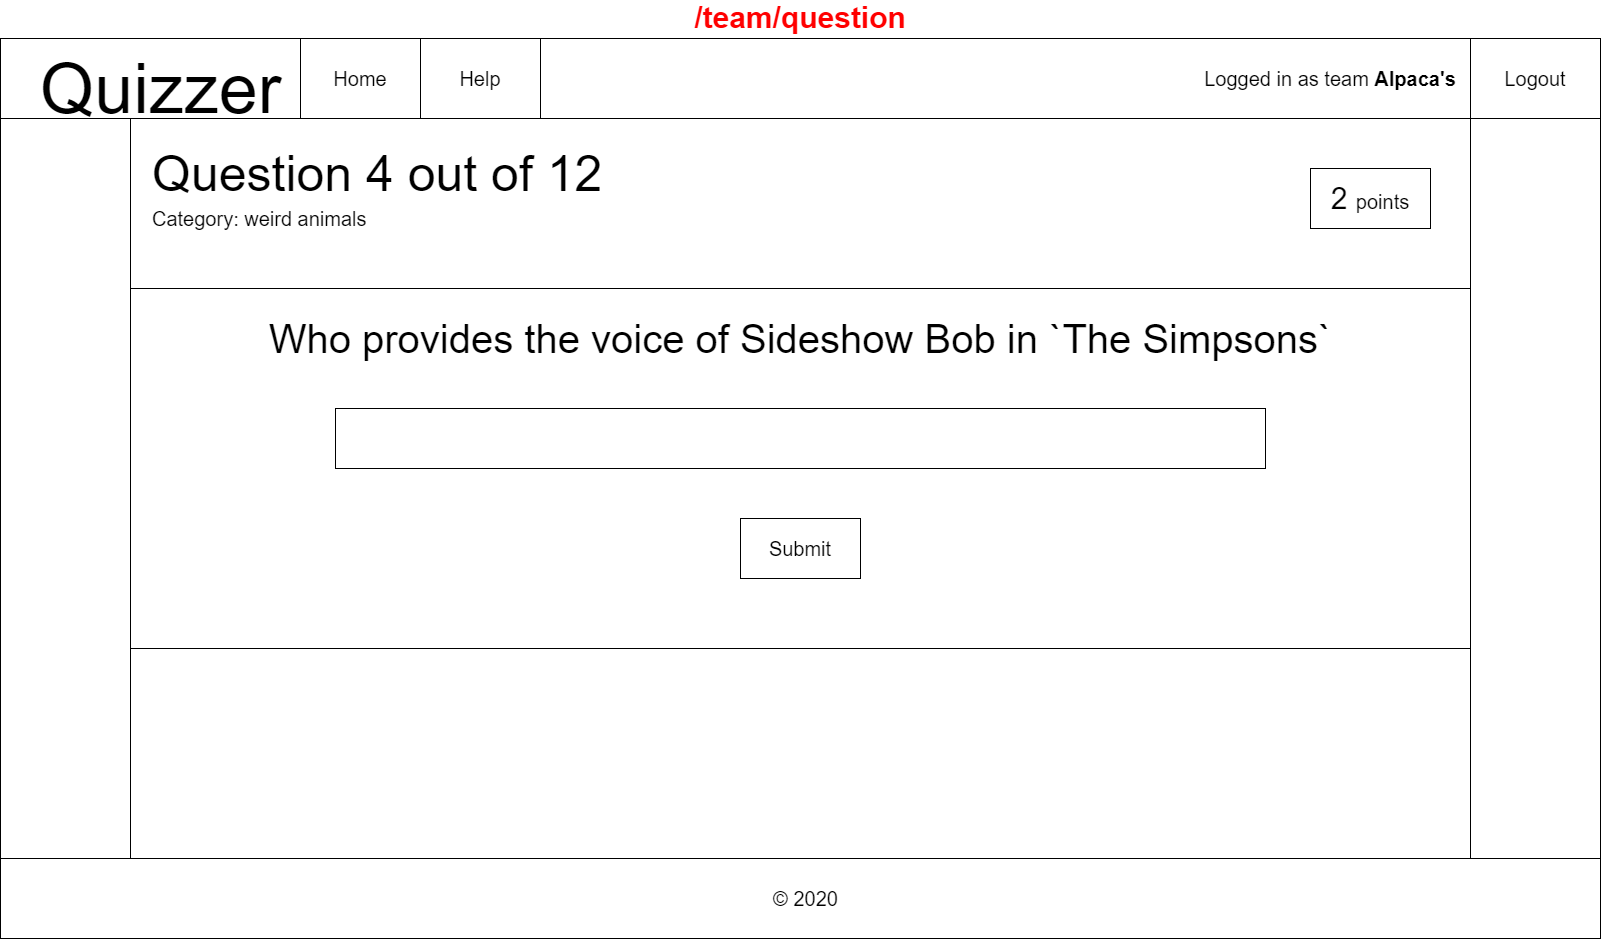
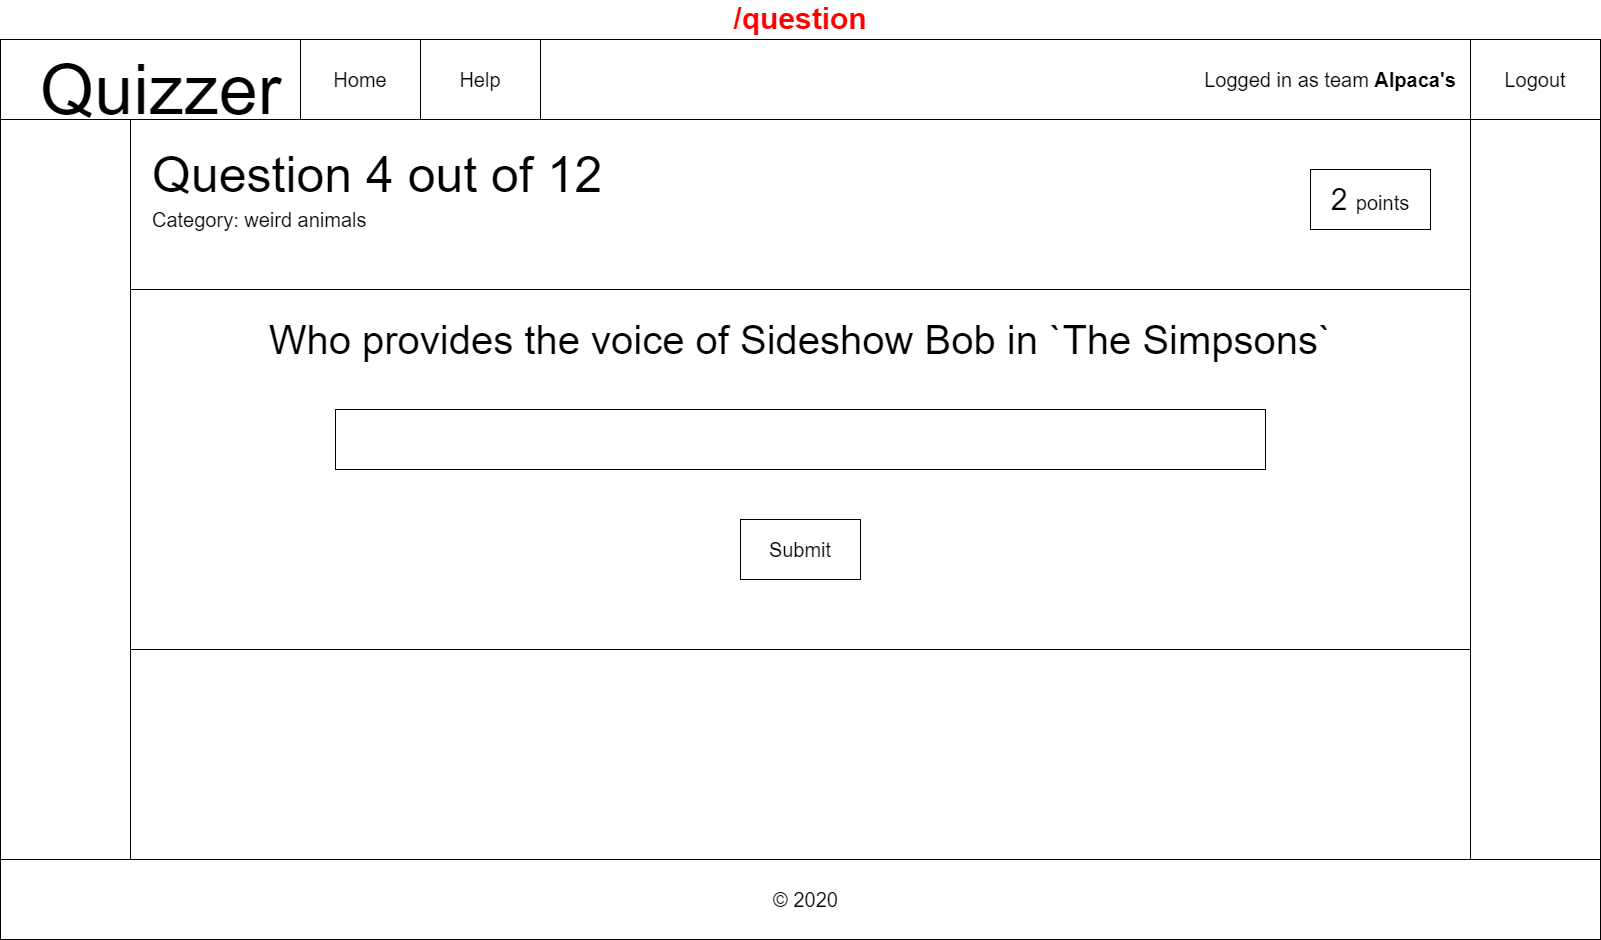
Update wireframe addresses
Also removed homepage, quizmaster-signup & quizmaster-signin

diff --git a/docs/wireframes.md b/docs/wireframes.md
@@ -3,11 +3,7 @@ These wireframes show, in general, how a page will look.
 
 Most pages have a navbar with a link to the homepage, a help page, an idication who is logged in and an sign in/out button.
 
- ## Homepage
- On the homepage users can choose whetever they want to signup as a quiz master or as a quiz team.
- ![homepage](wireframes/homepage.png)
-
-## Quizmaster
+## Quizmaster app
  ### Answer page
 On this page the quiz master, when logged in, can see the correct answer of the current question. They can also see the answers submitted by the teams and approve or disapprove them. When all answers have been (dis)approved the quiz master can submit the answers so that the teams can see them.
  ![quizmaster-answers](wireframes/quizmaster-answers.png)
@@ -36,7 +32,7 @@ On this page the quiz master, when logged in, can see the correct answer of the 
  After creating a new quiz, the quiz master can see the room code and teams that have applied. The quiz master can approve or disapprove teams before starting a new round.
  ![quizmaster-teams-applications](wireframes/quizmaster-teams-applications.png)
 
-## Scoreboard
+## Scoreboard app
  ### Answers page
  This page of the scoreboard shows after all teams have answered a question and the quiz master has (dis)approved all questions. It shows the question, the category, what the teams answers were and if they were correct.
  ![scoreboard-answers](wireframes/scoreboard-answers.png)
@@ -45,7 +41,7 @@ On this page the quiz master, when logged in, can see the correct answer of the 
 This page shows the current question and which of the teams have already answered.
  ![scoreboard-overview](wireframes/scoreboard-question.png)
 
-## Teams
+## Teams app
  ### Questions page
  On this page the team can see the question and submit an answer.
  ![team-questions](wireframes/team-questions.png)
